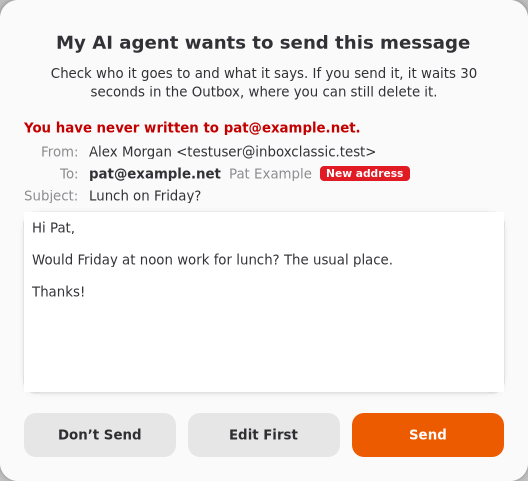
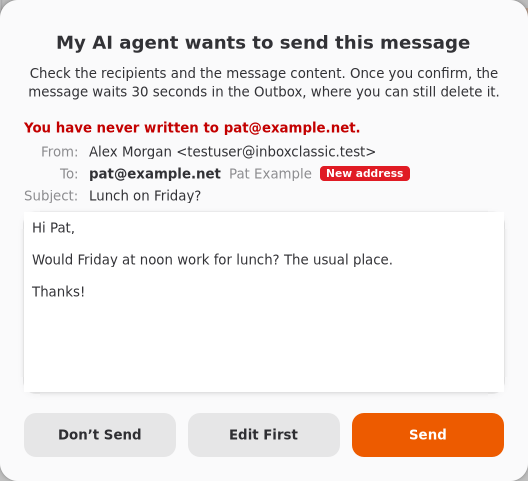
Inbox Classic 0.8: five languages, batch actions, moves between accounts, new screenshots
- Screenshots of all three platforms from the 0.8 UI tests (no envelope column, colored flags)
- Hero: the New link points at the new features
- Features: a card for the five languages, All Inboxes and moves between accounts, batches with Undo; offline reading folded into the new mail card
- FAQ: languages and moving mail between accounts, drag to and from files
- Structured data: the app's languages; llms.txt with the new features

Changed region(s): [[0.0606, 0.1247, 0.9394, 0.2183]]

diff --git a/index.html b/index.html
@@ -75,6 +75,7 @@
                             "https://inboxclassic.com/img/linux/read-1-html.png"
                         ],
                         "license": "https://opensource.org/licenses/MIT",
+                        "inLanguage": ["en", "de", "et", "fr", "es"],
                         "isAccessibleForFree": true,
                         "offers": { "@type": "Offer", "price": "0", "priceCurrency": "USD" },
                         "author": { "@id": "https://inboxclassic.com/#publisher" },
@@ -633,7 +634,7 @@
                 </nav>
                 <div class="hero">
                     <div>
-                        <a class="announce" href="#agents"><b>New</b> Let your AI agent help with your mail &rarr;</a>
+                        <a class="announce" href="#features"><b>New</b> Five languages, color flags and batch actions &rarr;</a>
                         <h1>Classic on the outside. Modern where it counts.</h1>
                         <p class="lead">
                             Folders on the left, messages on top, the reading pane below. A fast, simple mail program for Windows, Mac and Linux with the layout
@@ -742,7 +743,9 @@
                                     <path d="M6 5h12l2 8v6H4v-6z" /></svg
                             ></span>
                             <h3>All accounts in one place</h3>
-                            <p>Every account in one folder tree, and one click to check them all. Pick which address a message goes from as you write it.</p>
+                            <p>
+                                Every account in one folder tree, with All Inboxes to read them together. Drag a message onto another account to move it there.
+                            </p>
                         </div>
                         <div class="card">
                             <span class="icon"
@@ -761,8 +764,8 @@
                             ></span>
                             <h3>New mail right away</h3>
                             <p>
-                                Mail shows up the moment it arrives, with a notification and a count on the taskbar or the Dock, even while the window is
-                                closed.
+                                Mail shows up the moment it arrives, with a notification and a count on the taskbar or the Dock. It is kept on your computer
+                                too, so it opens instantly, even offline.
                             </p>
                         </div>
                         <div class="card">
@@ -770,16 +773,21 @@
                                 ><svg viewBox="0 0 24 24" aria-hidden="true"><path d="M4 5h16l-6 7.5V18l-4 2v-7.5z" /></svg
                             ></span>
                             <h3>A cleaner inbox</h3>
-                            <p>Unsubscribe from a mailing list in one click, send junk to the Junk folder, and drag messages into folders.</p>
+                            <p>
+                                Select a batch to flag in color, junk or move at once, and Undo if you change your mind. Unsubscribe from a list in one click.
+                            </p>
                         </div>
                         <div class="card">
                             <span class="icon"
                                 ><svg viewBox="0 0 24 24" aria-hidden="true">
-                                    <rect x="4" y="5" width="16" height="11" rx="1.5" />
-                                    <path d="M2 19h20" /></svg
+                                    <circle cx="12" cy="12" r="8.5" />
+                                    <path d="M3.5 12h17M12 3.5c2.4 2.3 3.5 5.2 3.5 8.5s-1.1 6.2-3.5 8.5c-2.4-2.3-3.5-5.2-3.5-8.5s1.1-6.2 3.5-8.5z" /></svg
                             ></span>
-                            <h3>Reads offline</h3>
-                            <p>Your mail is kept on your computer too, so it opens instantly, with or without a connection.</p>
+                            <h3>In five languages</h3>
+                            <p>
+                                English, Deutsch, eesti, fran&ccedil;ais and espa&ntilde;ol, in every window, menu and help page. It follows your system, or you
+                                pick one.
+                            </p>
                         </div>
                         <div class="card">
                             <span class="icon"
@@ -858,7 +866,7 @@
                             data-shot="agents-4-send"
                             src="img/windows/agents-4-send.png"
                             width="602"
-                            height="458"
+                            height="471"
                             alt="An AI agent asks to send a message: Inbox Classic shows the recipient, marked as a new address, the subject and the text, with Send, Edit First and Don't Send"
                             loading="lazy"
                         />
@@ -1030,8 +1038,25 @@
                             </p>
                         </div>
                         <div>
+                            <h3>Which languages does it speak?</h3>
+                            <p>
+                                English, German, Estonian, French and Spanish: the windows, the menus, the help and the Windows installer. It starts in your
+                                system's language, and you can pick another one in Options (Settings on the Mac, Preferences on Linux).
+                            </p>
+                        </div>
+                        <div>
+                            <h3>Can I move mail from one account to another?</h3>
+                            <p>
+                                Yes. Drag messages onto a folder of the other account, or use Move to Folder; hold Ctrl (Option on the Mac) to copy them
+                                instead. A message is copied to the new server first and only then removed from the old one, so nothing is lost on the way.
+                            </p>
+                        </div>
+                        <div>
                             <h3>Can I bring old messages along?</h3>
-                            <p>Messages saved as .eml files can be imported into any folder, and any message can be saved as one.</p>
+                            <p>
+                                Yes. Drag .eml files onto a folder to put them there, and drag messages out of the list to save them as files, as many as you
+                                like.
+                            </p>
                         </div>
                     </div>
                 </div>
@@ -1124,11 +1149,11 @@
                         'account-1-form': [442, 311],
                         'find-2-every-folder': [1086, 399],
                         'write-5-new': [746, 400],
-                        'agents-4-send': [602, 458]
+                        'agents-4-send': [602, 471]
                     },
                     mac: {
                         'read-1-html': [1100, 811],
-                        'account-1-form': [480, 389],
+                        'account-1-form': [480, 403],
                         'find-2-every-folder': [1100, 430],
                         'write-5-new': [760, 400],
                         'agents-4-send': [560, 445]
